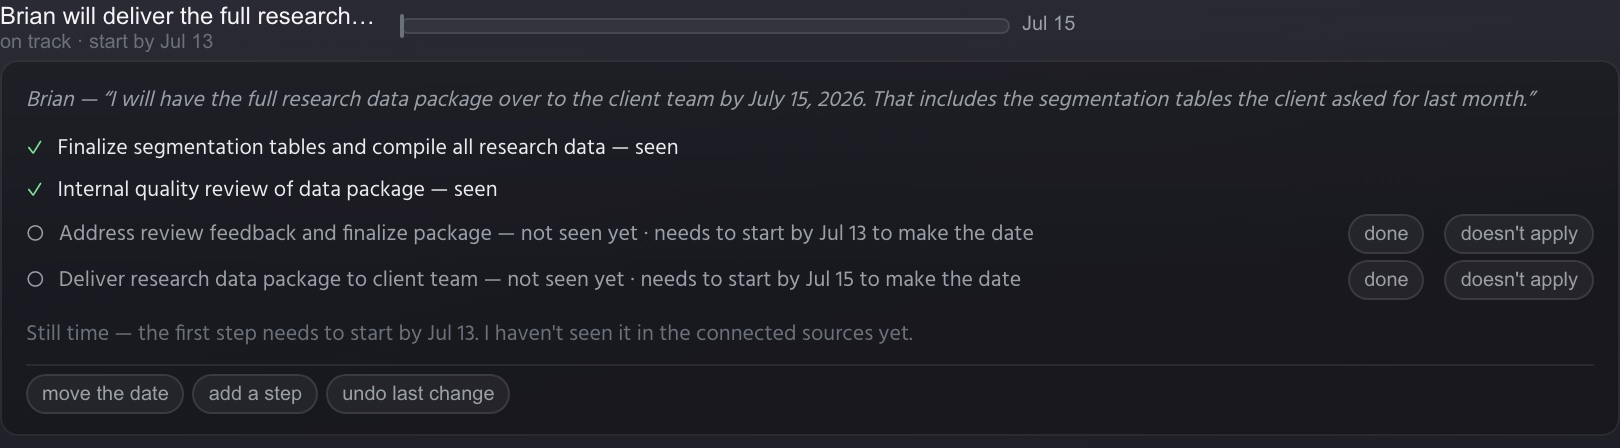
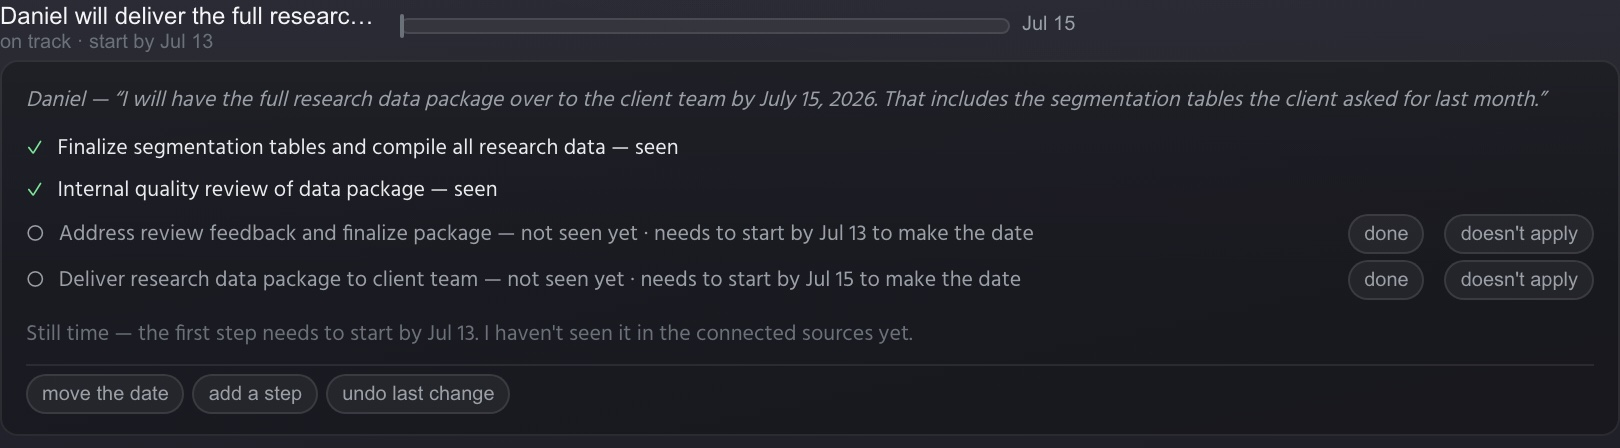
site: swap in anonymized screenshots; pull two that can't be re-shot clean
All screenshots came from Trisha's live corpus (real names/clients). Fix:
an anonymized corpus copy (~/scratch/scrub-corpus — Northwind/Daniel/Maya
personas, 0 residual real entities verified) served by a throwaway :3030
engine, re-captured via the shim harness and visually QA'd.

- hero-outlook, 22-workback-seen, 23-plan-editor → RE-SHOT clean (Daniel/
  Maya; amber + seen states re-staged then reverted). Swapped in.
- 27-headsup-crop (feature 4) + 29-merge-ask (No homework) → PULLED. The
  heads-up card and the merge/alias question don't surface from the scrubbed
  corpus, and forcing them is out-of-scope corpus surgery. Sections are
  copy-only pending Ross's call (reconstruct / substitute / leave copy-only).

No real names remain on the site. Spec SCRUB STATUS records the state.

Changed region(s): [[0.0, 0.1875, 0.9568, 0.25], [0.0, 0.0, 0.216, 0.0625]]

diff --git a/site/index.html b/site/index.html
@@ -357,9 +357,9 @@ footer .dot{margin:0 8px;opacity:.5}
         <h3>Put out the fire before it starts.</h3>
         <p>When something starts drifting, you see it early — while there's still time to reshuffle, pull someone in, or deliver part now and buy room for the rest. If a heads-up is the right call, one tap stages a short, no-blame note that waits in your outbox. Nothing sends itself.</p>
       </div>
-      <div class="feature-media">
-        <img src="assets/27-headsup-crop.jpg" alt="A drifting item — due in two days, no draft observed — with a staged heads-up one tap away." loading="lazy" width="666" height="200">
-      </div>
+      <!-- IMAGE PULLED (2026-07-08): 27-headsup-crop had real pilot names and the
+           heads-up card doesn't reproduce from the scrubbed corpus. Copy-only until
+           a clean heads-up card is captured or reconstructed. -->
     </div>
   </div>
 </section>
@@ -370,9 +370,9 @@ footer .dot{margin:0 8px;opacity:.5}
     <div class="trust-card">
       <div class="section-eyebrow">No homework</div>
       <p class="section-lead">You've tried the boards, the Gantt charts, the color-coded lists with everyone's name tagged on them. You groom them for an hour and nobody looks again. Every one of them asks the same thing: that somebody keep it current, forever — the job that never gets done. Threshold doesn't ask. Forward what matters and it does the filing — the emails, the meeting notes, the running log of decisions and commitments — organized and kept current on its own. When it isn't sure, it asks you one small question instead of handing you a system to manage.</p>
-      <div class="trust-media">
-        <img src="assets/29-merge-ask.png" alt="The one small question: Threshold asks whether two similarly-named areas are the same piece of work — with the consequences of each answer spelled out, fully undoable." loading="lazy" width="1096" height="480">
-      </div>
+      <!-- IMAGE PULLED (2026-07-08): 29-merge-ask had real client program names and the
+           merge question doesn't surface from the scrubbed corpus. Copy-only until
+           reconstructed from the anonymized question text or the linkage is fixed. -->
     </div>
   </div>
 </section>

diff --git a/WEBSITE-SPEC-THRESHOLD-BETA.md b/WEBSITE-SPEC-THRESHOLD-BETA.md
@@ -135,6 +135,21 @@ scrolling to the signup form.
   "Sent via Threshold" line is the lever; touching client-facing email is
   sensitive, so it's a decision, not a default.
 
+## SCRUB STATUS (real-data → anonymized, 2026-07-08)
+All screenshots came from Trisha's live corpus (real names/clients). Fix:
+an anonymized corpus COPY at ~/scratch/scrub-corpus (Vantage Collective /
+Northwind / Daniel-Maya persona set; 0 residual real entities, verified),
+served by a throwaway engine on :3030, re-captured via the shim harness.
+- **hero-outlook.jpg, 22-workback-seen.jpg, 23-plan-editor.jpg** — RE-SHOT
+  clean and swapped in (Daniel / Maya; amber + seen states re-staged and
+  reverted). Visually QA'd, zero real names.
+- **27-headsup-crop.jpg (feature 4) + 29-merge-ask.png (No homework)** —
+  PULLED. The heads-up card and the merge/alias question don't surface from
+  the scrubbed corpus (client-facing detection + a broken alias→job linkage),
+  and forcing it is out-of-scope corpus surgery (Ross: "don't do the whole
+  app"). Sections are copy-only pending Ross's call: reconstruct faithfully
+  from the anonymized text, capture a clean substitute, or leave copy-only.
+
 ## Open from the Trisha session (visual pass, not copy — 2026-07-08)
 - **Hero poster frame**: current opening frame shows "the state of play,
   nothing important" (Ross). Re-select a meaningful first frame (the Today